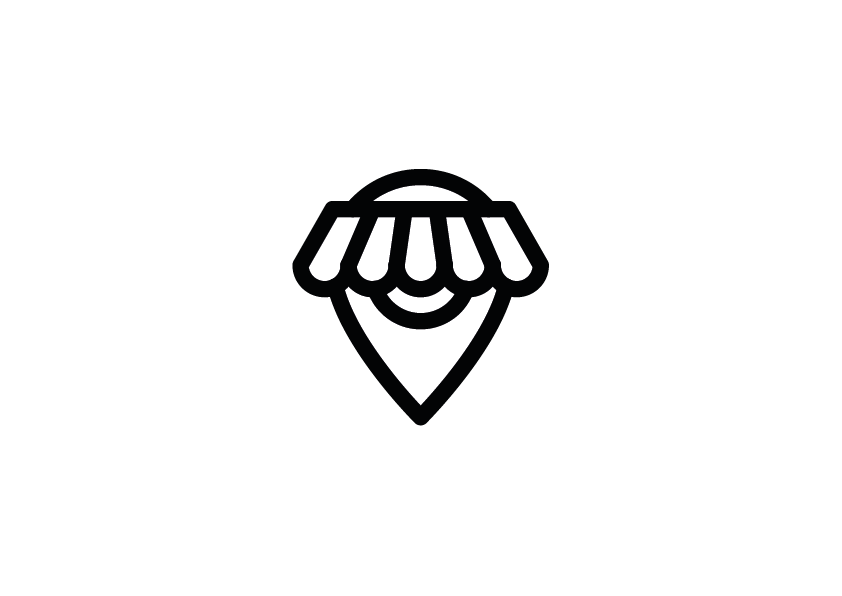
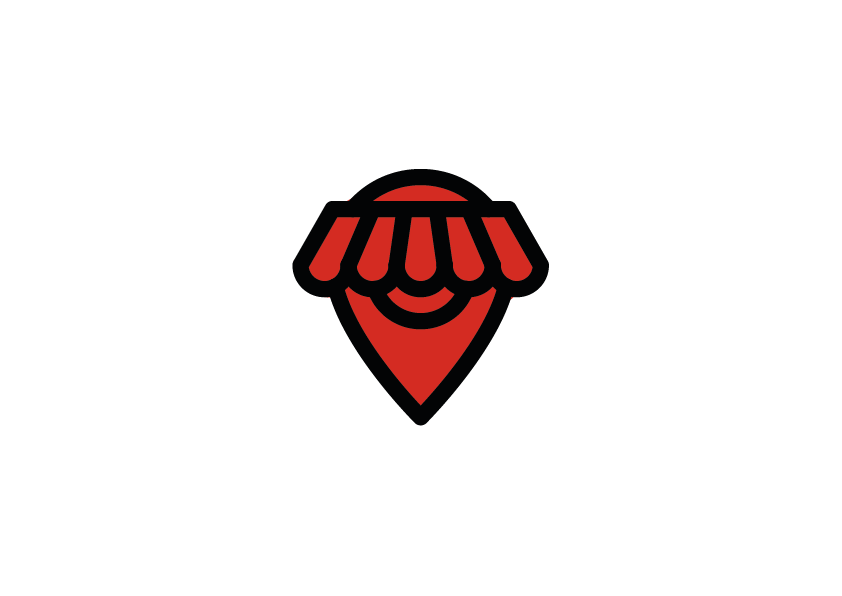
nieuwe pin en popups af

Changed region(s): [[0.3705, 0.302, 0.6485, 0.6946]]

diff --git a/public/js/script.js b/public/js/script.js
@@ -12,7 +12,7 @@ L.tileLayer('https://{s}.tile.openstreetmap.org/{z}/{x}/{y}.png', {
 
 var icon = L.icon({
     iconUrl: '/img/marker.png',
-    iconSize:     [50, 40]
+    iconSize:     [60, 50]
 
 });
 
@@ -80,55 +80,61 @@ var overlayMaps = {
 marker1.addTo(mymap);
 marker1.bindPopup("<b>A-MERT!</b><br>Sint-Jansplein</br><b>Woensdag en vrijdag</br><b>06:00 - 15:00</br>");
 marker2.addTo(mymap);
-marker2.bindPopup("<b>A-MERT!</b><br>Dit is het Arenaplein<b>Maandag</br><b>06:00 - 15:00</br>");
+marker2.bindPopup("<b>A-MERT!</b><br>Dit is het Arenaplein</br><b>Maandag</br><b>06:00 - 15:00</br>");
 marker3.addTo(mymap);
-marker3.bindPopup("<b>A-MERT!</b><br>Dit is het F. Van Eedenplein<b>Donderdag</br><b>06:00 - 15:00</br>");
+marker3.bindPopup("<b>A-MERT!</b><br>Dit is het F. Van Eedenplein</br><b>Donderdag</br><b>06:00 - 15:00</br>");
 marker4.addTo(mymap);
-marker4.bindPopup("<b>A-MERT!</b><br>Dit is het Franciscusplein<b>Dinsdag</br><b>06:00 - 15:00</br>");
+marker4.bindPopup("<b>A-MERT!</b><br>Dit is het Franciscusplein</br><b>Dinsdag</br><b>06:00 - 15:00</br>");
 marker5.addTo(mymap);
-marker5.bindPopup("<b>A-MERT!</b><br>Dit is het Kristus-Koningplein<b>Woensdag</br><b>06:00 - 15:00</br>");
+marker5.bindPopup("<b>A-MERT!</b><br>Dit is het Kristus-Koningplein</br><b>Woensdag</br><b>06:00 - 15:00</br>");
 marker6.addTo(mymap);
-marker6.bindPopup("<b>A-MERT!</b><br>Dit is de Desguinlei<b>Vrijdag</br><b>06:00 - 15:00</br>");
+marker6.bindPopup("<b>A-MERT!</b><br>Dit is de Desguinlei</br><b>Vrijdag</br><b>09:30 - 18:30</br>");
 marker7.addTo(mymap);
-marker7.bindPopup("<b>A-MERT!</b><br>Dit is de Santtiagostraat<b>Donderdag</br><b>06:00 - 15:00</br>");
+marker7.bindPopup("<b>A-MERT!</b><br>Dit is de Santtiagostraat</br><b>Donderdag</br><b>06:00 - 15:00</br>");
 marker8.addTo(mymap);
-marker8.bindPopup("<b>A-MERT!</b><br>Dit is het Falconplein<b>Zondag</br><b>06:00 - 15:00</br>");
+marker8.bindPopup("<b>A-MERT!</b><br>Dit is het Falconplein</br><b>Zondag</br><b>06:00 - 18:00</br>");
 marker9.addTo(mymap);
-marker9.bindPopup("<b>A-MERT!</b><br>Dit is de Grote Markt<b>Woensdag</br><b>06:00 - 15:00</br>");
+marker9.bindPopup("<b>A-MERT!</b><br>Dit is de Grote Markt</br><b>Woensdag</br><b>07:00 - 22:00</br>");
 marker10.addTo(mymap);
-marker10.bindPopup("<b>A-MERT!</b><br>Dit is het Wim Saerensplein<b>Zaterdag</br><b>06:00 - 15:00</br>");
+marker10.bindPopup("<b>A-MERT!</b><br>Dit is het Wim Saerensplein</br><b>Zaterdag</br><b>06:00 - 15:00</br>");
 marker11.addTo(mymap);
-marker11.bindPopup("<b>A-MERT!</b><br>Dit is het Rooiplein<b>Dinsdag</br><b>06:00 - 15:00</br>");
+marker11.bindPopup("<b>A-MERT!</b><br>Dit is het Rooiplein</br><b>Dinsdag</br><b>06:00 - 15:00</br>");
 marker12.addTo(mymap);
-marker12.bindPopup("<b>A-MERT!</b><br>Dit is de Dageraadplaats<b>Woensdag en vrijdag</br><b>06:00 - 15:00</br>");
+marker12.bindPopup("<b>A-MERT!</b><br>Dit is de Dageraadplaats</br><b>Donderdag</br><b>06:00 - 15:00</br>");
 marker13.addTo(mymap);
-marker13.bindPopup("<b>A-MERT!</b><br>Dit is het Blauwtorenplein & Oudevaartplaats<b>Woensdag en vrijdag</br><b>06:00 - 15:00</br>");
+marker13.bindPopup("<b>A-MERT!</b><br>Dit is het Blauwtorenplein & Oudevaartplaats</br><b>Zaterdag en zondag</br><b>06:00 - 18:00</br>");
 marker14.addTo(mymap);
-marker14.bindPopup("<b>A-MERT!</b><br>Dit is de Lijnwaadmarkt<b>Woensdag en vrijdag</br><b>06:00 - 15:00</br>");
+marker14.bindPopup("<b>A-MERT!</b><br>Dit is de Lijnwaadmarkt</br><b>Zaterdag</br><b>06:00 - 15:00</br>");
 marker15.addTo(mymap);
-marker15.bindPopup("<b>A-MERT!</b><br>Dit is de Botermarkt<b>Woensdag en vrijdag</br><b>06:00 - 15:00</br>");
+marker15.bindPopup("<b>A-MERT!</b><br>Dit is de Botermarkt</br><b>Vrijdag</br><b>06:00 - 15:00</br>");
 marker16.addTo(mymap);
-marker16.bindPopup("<b>A-MERT!</b><br>Dit is het Laar<b>Woensdag en vrijdag</br><b>06:00 - 15:00</br>");
+marker16.bindPopup("<b>A-MERT!</b><br>Dit is het Laar</br><b>Vrijdag</br><b>06:00 - 15:00</br>");
 marker17.addTo(mymap);
-marker17.bindPopup("<b>A-MERT!</b><br>Dit is de Lakborslei<b>Woensdag en vrijdag</br><b>06:00 - 15:00</br>");
+marker17.bindPopup("<b>A-MERT!</b><br>Dit is de Lakborslei</br><b>Donderdag</br><b>06:00 - 15:00</br>");
 marker18.addTo(mymap);
-marker18.bindPopup("<b>A-MERT!</b><br>Dit is de Kioskplaats<b>Woensdag en vrijdag</br><b>06:00 - 15:00</br>");
+marker18.bindPopup("<b>A-MERT!</b><br>Dit is de Kioskplaats</br><b>Zaterdag</br><b>06:00 - 15:00</br>");
 marker19.addTo(mymap);
-marker19.bindPopup("<b>A-MERT!</b><br>Dit is het Bist<b>Woensdag en vrijdag</br><b>06:00 - 15:00</br>");
+marker19.bindPopup("<b>A-MERT!</b><br>Dit is het Bist</br><b>Dinsdag</br><b>06:00 - 15:00</br>");
 marker20.addTo(mymap);
-marker20.bindPopup("<b>A-MERT!</b><br>Dit is De Villegasstraat<b>Woensdag en vrijdag</br><b>06:00 - 15:00</br>");
+marker20.bindPopup("<b>A-MERT!</b><br>Dit is De Villegasstraat</br><b>Zaterdag</br><b>06:00 - 15:00</br>");
 marker21.addTo(mymap);
-marker21.bindPopup("<b>A-MERT!</b><br>Dit is de Gitschotellei<b>Woensdag en vrijdag</br><b>06:00 - 15:00</br>");
+marker21.bindPopup("<b>A-MERT!</b><br>Dit is de Gitschotellei</br><b>Woensdag</br><b>06:00 - 15:00</br>");
 marker22.addTo(mymap);
-marker22.bindPopup("<b>A-MERT!</b><br>Dit is de Zillebekelaan<b>Woensdag en vrijdag</br><b>06:00 - 15:00</br>");
+marker22.bindPopup("<b>A-MERT!</b><br>Dit is de Zillebekelaan</br><b>Vrijdag</br><b>06:00 - 15:00</br>");
 marker23.addTo(mymap);
-marker23.bindPopup("<b>A-MERT!</b><br>Dit is de Napoleonkaai<b>Woensdag en vrijdag</br><b>06:00 - 15:00</br>");
+marker23.bindPopup("<b>A-MERT!</b><br>Dit is de Napoleonkaai</br><b>Vrijdag</br><b>15:00 - 22:00</br>");
 marker24.addTo(mymap);
-marker24.bindPopup("<b>A-MERT!</b><br>Dit is het Michel Willemsplein<b>Woensdag en vrijdag</br><b>06:00 - 15:00</br>");
+marker24.bindPopup("<b>A-MERT!</b><br>Dit is het Michel Willemsplein</br><b>Vrijdag</br><b>06:00 - 15:00</br>");
 marker25.addTo(mymap);
-marker25.bindPopup("<b>A-MERT!</b><br>Dit is het Sint-Jansvliet<b>Woensdag en vrijdag</br><b>06:00 - 15:00</br>");
+marker25.bindPopup("<b>A-MERT!</b><br>Dit is het Sint-Jansvliet</br><b>Zondag</br><b>07:00 - 19:00</br>");
 
-
+maandag.addTo(mymap);
+dinsdag.addTo(mymap);
+woensdag.addTo(mymap);
+donderdag.addTo(mymap);
+vrijdag.addTo(mymap);
+zaterdag.addTo(mymap);
+zondag.addTo(mymap);
 L.control.layers('', overlayMaps).addTo(mymap);
 
 
